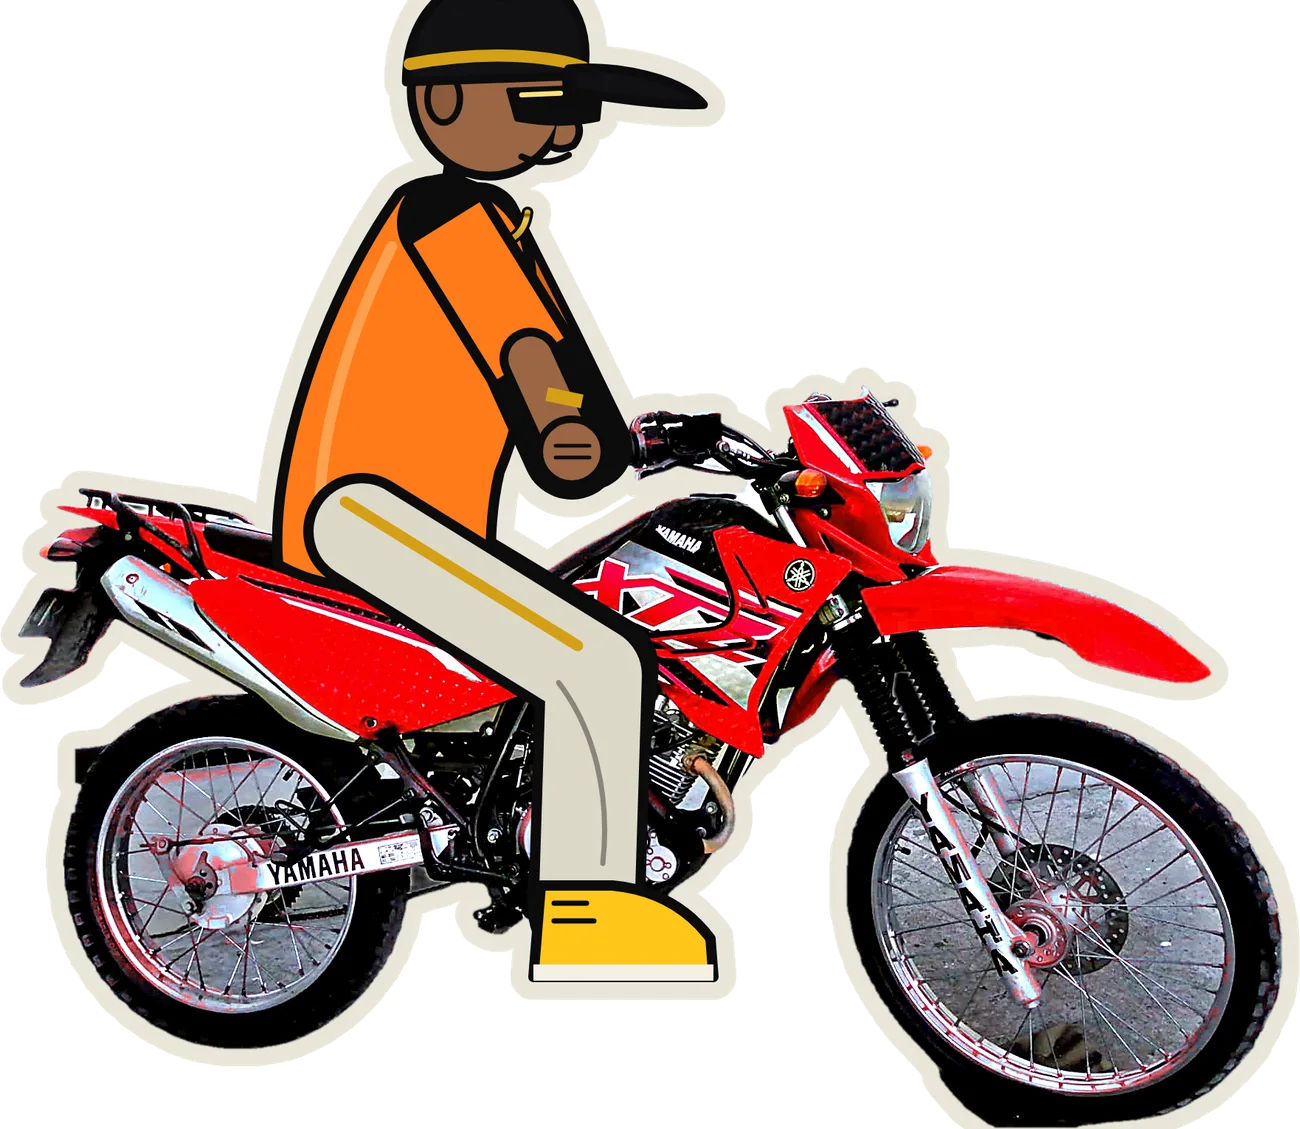
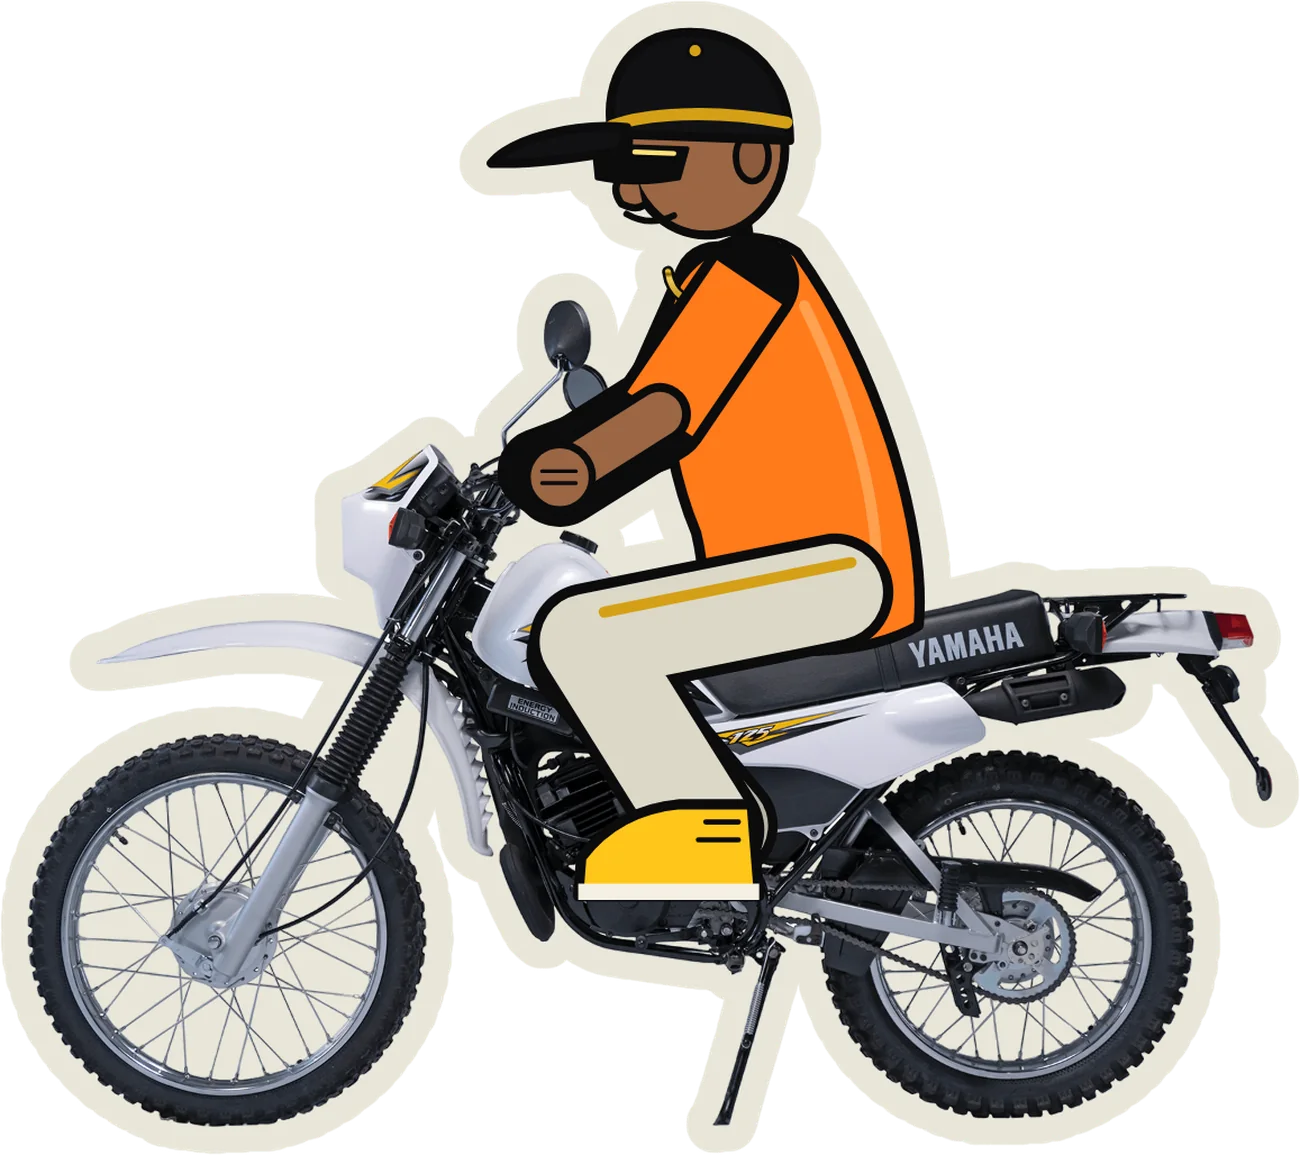
feat(v3.1): la DT blanca pasa al héroe y la Yamaha a blanco y negro
- Héroe: la Yamaha DT blanca de la referencia original, con el piloto de
  camiseta naranja montado encima (brazo y pierna calculados sobre el manillar
  y el estribo de la moto) y el sol amarillo detrás. Como la moto mira a la
  izquierda, la estela, el faro, las estrellas, el caballito y el globo
  «¡brrm!» van ahora en el sentido contrario.
- La Yamaha de Iván ya no es la moto del héroe: se pasa a blanco y negro y
  se queda como recurso de Sobre mí (ecos), de la ficha «SE BUSCA» y del
  sticker de la moto del bosque, sin color que choque con la paleta.
- Se quita el sticker suelto de la DT en Casos (ahora es el héroe).
- Tests: 109 pasan.

diff --git a/site/public/v3-1/v3.js b/site/public/v3-1/v3.js
@@ -26,6 +26,8 @@
   if (reduced) $$('animateTransform, animate').forEach((a) => a.remove());
   const rng = (seed) => () => { seed |= 0; seed = (seed + 0x6D2B79F5) | 0; let t = Math.imul(seed ^ (seed >>> 15), 1 | seed); t = (t + Math.imul(t ^ (t >>> 7), 61 | t)) ^ t; return ((t ^ (t >>> 14)) >>> 0) / 4294967296; };
 
+  // Sentido de marcha de la moto del héroe: +1 mira a la derecha, -1 a la izquierda (la DT).
+  const DIR = -1;
   const state = {
     t: 0, last: performance.now(), frame: 0, running: true,
     px: innerWidth < 760 ? 5 : 6,
@@ -129,7 +131,7 @@
     capas.className = 'eco__capas';
     ['t-1', 't-2', 't-4', 't-3', 't-5'].forEach((t, i) => {
       const im = document.createElement('img');
-      im.src = '/v3-1/img/dt.webp';
+      im.src = '/v3-1/img/yamaha.webp';
       im.alt = '';
       im.decoding = 'async';
       im.className = 'eco__capa';
@@ -138,7 +140,7 @@
       capas.appendChild(im);
     });
     const frente = document.createElement('img');
-    frente.src = '/v3-1/img/dt.webp';
+    frente.src = '/v3-1/img/yamaha.webp';
     frente.alt = '';
     frente.decoding = 'async';
     frente.className = 'eco__frente';
@@ -349,7 +351,7 @@
 
   const COMUN = `
 precision highp float;
-uniform vec2 uRes; uniform float uTime;
+uniform vec2 uRes; uniform float uTime; uniform float uDir;
 float hash(vec2 p){ vec3 p3 = fract(vec3(p.xyx) * .1031); p3 += dot(p3, p3.yzx + 33.33); return fract((p3.x + p3.y) * p3.z); }
 vec3 bandas(float k){
   if (k < 1.) return vec3(.93, .91, .85);
@@ -374,7 +376,7 @@ void emite(vec2 p, vec4 e, float wob, inout vec4 c){
 }
 void main(){
   vec2 p = floor(gl_FragCoord.xy);
-  vec4 prev = texture2D(uPrev, (p + vec2(uShift, 0.) + .5) / uRes);
+  vec4 prev = texture2D(uPrev, (p + vec2(uShift * uDir, 0.) + .5) / uRes);
   vec4 c = vec4(prev.rgb, max(prev.a - uShift * 2. / 255., 0.));
   emite(p, uMoto, sin(uTime * 5.) * 1.4 + sin(uTime * 2.3) * 1.1, c);
   emite(p, uMouse, sin(uTime * 9.) * .8, c);
@@ -396,14 +398,14 @@ vec3 noche(vec2 p, float t){
   vec3 col = vec3(.024, .026, .034);
   for (int i = 0; i < 3; i++){
     float fi = float(i);
-    vec2 q = vec2(p.x + floor(uDrift * (1.4 + fi * 2.8)), p.y);
+    vec2 q = vec2(p.x + uDir * floor(uDrift * (1.4 + fi * 2.8)), p.y);
     float h = hash(q + fi * 17.3);
     if (h < .010 - fi * .0026){
       float tw = .5 + .5 * sin(t * 3. + h * 400.);
       col = mix(col, vec3(.86, .92, 1.), mix(.4, 1., tw) * (.5 + fi * .25));
     }
   }
-  vec2 q = vec2(p.x + floor(uDrift * 4.), p.y);
+  vec2 q = vec2(p.x + uDir * floor(uDrift * 4.), p.y);
   vec2 cell = floor(q / 34.);
   vec2 f = q - cell * 34.;
   vec2 c = floor(vec2(hash(cell) * 26. + 4., hash(cell + 9.1) * 26. + 4.));
@@ -413,7 +415,7 @@ vec3 noche(vec2 p, float t){
 }
 vec3 asfalto(vec2 p, float t){
   vec3 col = vec3(.035, .035, .04);
-  vec2 q = vec2(p.x + floor(uDrift * 1.5), p.y);
+  vec2 q = vec2(p.x + uDir * floor(uDrift * 1.5), p.y);
   vec2 c = (floor(q / 4.) + .5) * 4.;
   float r = mix(.5, 1.5, smoothstep(0., uRes.y, p.y)) + .2 * sin(t * .8 + c.x * .07);
   if (length(q - c) < r) col = vec3(.09, .09, .10);
@@ -453,7 +455,7 @@ void main(){
 
   // el faro de la moto: un haz tramado hacia la izquierda, sobre el nombre
   if (uMundo < .5 && uFaro.z > .5){
-    float dx = p.x - uFaro.x;
+    float dx = (p.x - uFaro.x) * uDir;
     if (dx > 0.){
       float abre = 3. + dx * .34;
       float dy = p.y - (uFaro.y + dx * .06);
@@ -616,7 +618,7 @@ void main(){
     gl.useProgram(pEstela);
     let u = pEstela.u;
     textura(0, estela[i].tex, u.uPrev);
-    gl.uniform2f(u.uRes, W, H); gl.uniform1f(u.uTime, state.t); gl.uniform1f(u.uShift, shift);
+    gl.uniform2f(u.uRes, W, H); gl.uniform1f(u.uTime, state.t); gl.uniform1f(u.uShift, shift); gl.uniform1f(u.uDir, DIR);
     gl.uniform4fv(u.uMoto, cola4); gl.uniform4fv(u.uMouse, raton);
     dibuja(estela[j].fb, pEstela, W, H);
 
@@ -649,6 +651,7 @@ void main(){
     textura(3, atlas, u.uFoto);
     gl.uniform1f(u.uFotoOn, atlasOn);
     gl.uniform1f(u.uDrift, state.drift);
+    gl.uniform1f(u.uDir, DIR);
     gl.uniform2f(u.uRes, W, H); gl.uniform1f(u.uTime, state.t);
     gl.uniform1f(u.uMundo, state.mundo);
     gl.uniform1f(u.uMosh, mosh);

diff --git a/site/public/v3-1/index.html b/site/public/v3-1/index.html
@@ -138,7 +138,7 @@
       <a class="boton boton--oro" href="#casos">Ver casos</a>
       <a class="boton boton--papel" href="#contacto">Escríbeme</a>
     </p>
-    <div class="moto" id="moto" style="--ratio:1.1516;--rueda-x:14.47%;--rueda-y:83.66%">
+    <div class="moto" id="moto" style="--ratio:1.1255;--rueda-x:77.61%;--rueda-y:80.64%">
       <div class="sol" aria-hidden="true"><i class="sol__rayos"></i><i class="sol__puntos"></i></div>
       <svg class="chispa chispa--a" aria-hidden="true"><use href="#s-chispa"/></svg>
       <svg class="chispa chispa--b" aria-hidden="true"><use href="#s-chispa"/></svg>
@@ -146,9 +146,9 @@
       <svg class="chispa chispa--d" aria-hidden="true"><use href="#s-chispa"/></svg>
       <p class="insignia" aria-label="Desde 2019"><svg viewBox="0 0 120 120" aria-hidden="true"><path d="M60 3l9 17 17-9 3 19 19 2-8 17 16 10-14 13 9 17-19 2-2 19-17-8-10 16-11-15-17 8-3-19-19-2 8-17-16-10 14-13-9-17 19-2 2-19 17 8z" fill="#d4a017" stroke="#000" stroke-width="5" stroke-linejoin="round"/></svg><span>Desde<b>2019</b></span></p>
       <div class="moto__mueve">
-        <img class="moto__foto" src="/v3-1/img/dt.webp" alt="Un piloto con gorra, lentes y camiseta naranja sobre la Yamaha de Iván, en un fotomontaje" width="1300" height="1129" fetchpriority="high" decoding="async">
-        <span class="moto__faro" id="moto-faro" aria-hidden="true" style="left:69.98%;top:45.23%"></span>
-        <span class="moto__cola" id="moto-cola" aria-hidden="true" style="left:1.87%;top:46.21%;height:9.8%"></span>
+        <img class="moto__foto" src="/v3-1/img/dt.webp" alt="Un piloto con gorra, lentes y camiseta naranja sobre una Yamaha DT blanca, en un fotomontaje" width="1300" height="1155" fetchpriority="high" decoding="async">
+        <span class="moto__faro" id="moto-faro" aria-hidden="true" style="left:32.5%;top:42.32%"></span>
+        <span class="moto__cola" id="moto-cola" aria-hidden="true" style="left:94.9%;top:48.83%;height:10.7%"></span>
         <span class="moto__globo" aria-hidden="true">¡brrm!</span>
       </div>
     </div>
@@ -182,10 +182,6 @@
       <figure class="foto foto--muro">
         <div class="foto__marco"><img src="/v3-1/img/muro-hiphop.jpg" alt="Una pared de ladrillo con la frase Proyecto hip-hop, paz, convivencia, sobre un mural de graffiti azul" width="1200" height="475" loading="lazy" decoding="async"></div>
         <figcaption>«Proyecto hip-hop, paz, convivencia»</figcaption>
-      </figure>
-      <figure class="foto foto--die foto--dt">
-        <div class="foto__marco"><img src="/v3-1/img/dt-blanca.webp" alt="Una Yamaha DT blanca, moto de trail de los noventa, recortada como un sticker" width="760" height="517" loading="lazy" decoding="async"></div>
-        <figcaption>Yamaha DT</figcaption>
       </figure>
     </div>
     <ul class="calle">
@@ -518,7 +514,7 @@
     <div class="ficha__hoja">
       <h2 class="ficha__titulo" id="contacto-t">Se busca</h2>
       <div class="ficha__cuerpo">
-        <div class="ficha__foto" aria-hidden="true"><img class="ficha__moto" src="/v3-1/img/dt.webp" alt="" width="1300" height="747" loading="lazy" decoding="async"><img class="ficha__yo" id="ficha-yo" alt="" hidden></div>
+        <div class="ficha__foto" aria-hidden="true"><img class="ficha__moto" src="/v3-1/img/yamaha.webp" alt="" width="1300" height="1129" loading="lazy" decoding="async"><img class="ficha__yo" id="ficha-yo" alt="" hidden></div>
         <div class="ficha__datos-w">
           <p class="ficha__nombre">Iván Santander</p>
           <p class="ficha__cargo">Tech Lead y Technical Product Owner</p>

diff --git a/site/public/v3-1/v3.css b/site/public/v3-1/v3.css
@@ -744,11 +744,11 @@ body[data-mundo="1"] .tilt { opacity: 1; }
 }
 .moto.is-brrm .moto__mueve { animation-name: caballito2; }
 @keyframes pesada2 {
-  0%, 50% { transform: rotate(0); } 58% { transform: rotate(-2deg); } 72% { transform: rotate(-10deg); }
-  86% { transform: rotate(-9deg); } 95% { transform: rotate(-.5deg); } 100% { transform: rotate(0); }
+  0%, 50% { transform: rotate(0); } 58% { transform: rotate(1.5deg); } 72% { transform: rotate(7deg); }
+  86% { transform: rotate(6deg); } 95% { transform: rotate(.4deg); } 100% { transform: rotate(0); }
 }
-@keyframes caballito2 { 0% { transform: rotate(0); } 30% { transform: rotate(-15deg); } 60% { transform: rotate(-12deg); } 100% { transform: rotate(0); } }
-.moto__globo { left: auto; right: 6%; top: -8%; }
+@keyframes caballito2 { 0% { transform: rotate(0); } 30% { transform: rotate(15deg); } 60% { transform: rotate(12deg); } 100% { transform: rotate(0); } }
+.moto__globo { left: 6%; right: auto; top: -8%; }
 
 /* Ecos: la misma foto, en copias planas que se van hacia atrás (a la izquierda) */
 .eco { position: relative; display: block; width: 100%; max-width: 560px; margin: 0 auto; overflow: visible; }
@@ -806,13 +806,13 @@ body[data-mundo="1"] .tilt { opacity: 1; }
 }
 .sol__rayos {
   position: absolute; inset: -30%;
-  background: repeating-conic-gradient(from 0deg, #ffc61a 0 6deg, #fff0a8 6deg 12deg);
+  background: repeating-conic-gradient(from 0deg, #ffc61a 0 6deg, #ffefa0 6deg 12deg);
   animation: sol 70s linear infinite;
 }
 .sol__puntos {
   position: absolute; inset: 0;
   background:
-    radial-gradient(circle at 50% 46%, rgba(255, 255, 255, .85) 0, rgba(255, 255, 255, 0) 46%),
+    radial-gradient(circle at 50% 46%, rgba(255, 246, 200, .4) 0, rgba(255, 246, 200, 0) 44%),
     radial-gradient(rgba(0, 0, 0, .34) 1.6px, transparent 2.3px) 0 0 / 9px 9px;
   -webkit-mask-image: radial-gradient(circle at 50% 50%, transparent 0 24%, #000 78%);
   mask-image: radial-gradient(circle at 50% 50%, transparent 0 24%, #000 78%);

diff --git a/tests/v31.spec.js b/tests/v31.spec.js
@@ -119,7 +119,7 @@ test.describe('v3.1', () => {
   test('los fotogramas de referencia están en la página y cargan', async ({ page }) => {
     await page.waitForTimeout(600);
     const figuras = page.locator('figure img');
-    expect(await figuras.count()).toBe(16);
+    expect(await figuras.count()).toBe(15);
     for (const img of await figuras.all()) {
       await img.scrollIntoViewIfNeeded();
       await expect.poll(() => img.evaluate((i) => i.complete && i.naturalWidth > 0)).toBe(true);
@@ -141,7 +141,7 @@ test.describe('v3.1', () => {
     await expect(page.locator('#contacto')).toBeInViewport();
   });
 
-  test('la moto del héroe es la foto real y las fotos con personas no se publican', async ({ page, request }) => {
+  test('la moto del héroe es la DT blanca y las fotos con personas no se publican', async ({ page, request }) => {
     const moto = page.locator('.moto__foto');
     await expect(moto).toHaveAttribute('src', '/v3-1/img/dt.webp');
     await expect.poll(() => moto.evaluate((i) => i.complete && i.naturalWidth > 0)).toBe(true);
